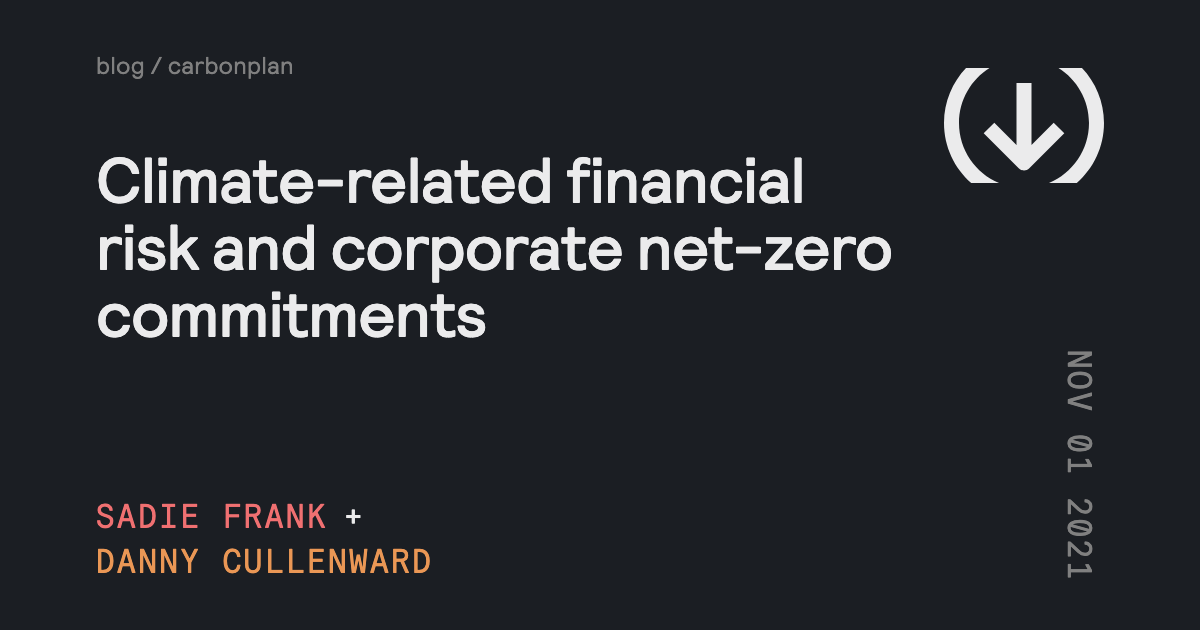
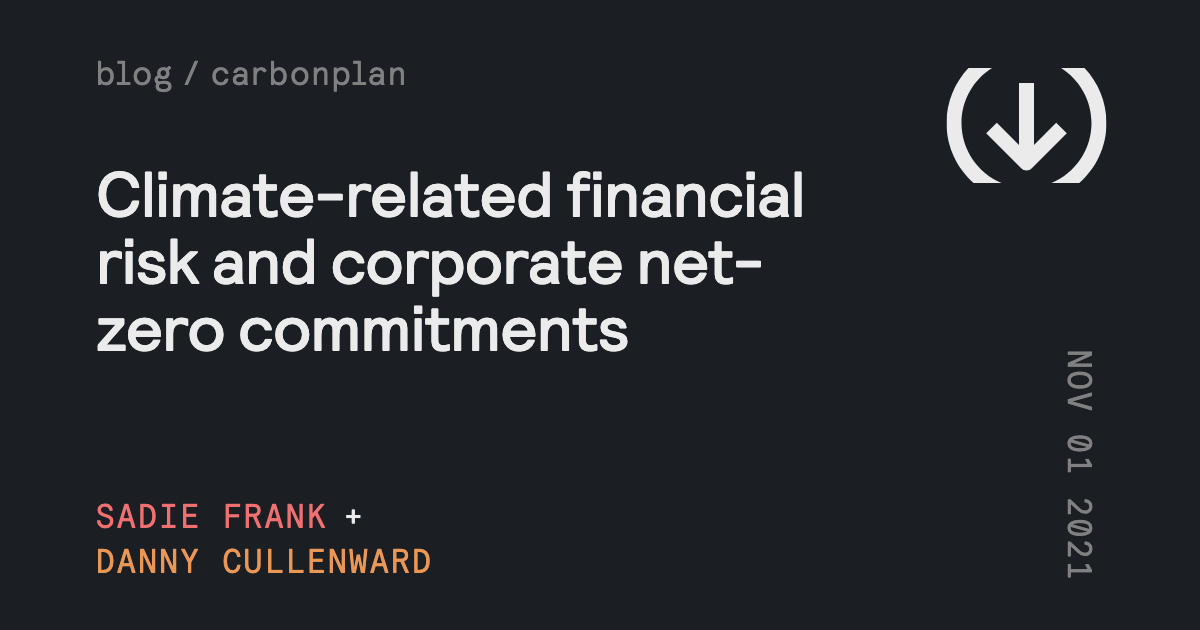
UI tweaks

diff --git a/pages/cards/[id].js b/pages/cards/[id].js
@@ -18,7 +18,15 @@ const Card = ({ title, authors, date, number }) => {
     >
       <Flex sx={{ flexDirection: 'column', justifyContent: 'space-between' }}>
         <Box>
-          <Box sx={{ color: 'secondary', fontSize: [4], mb: [3] }}>
+          <Box
+            sx={{
+              color: 'secondary',
+              fontFamily: 'faux',
+              letterSpacing: 'smallcaps',
+              fontSize: [5],
+              mb: [3],
+            }}
+          >
             blog / carbonplan
           </Box>
           <Box as='h1' variant='styles.h1' sx={{ maxWidth: '800px' }}>
@@ -47,6 +55,9 @@ const Card = ({ title, authors, date, number }) => {
           ))}
         </Box>
       </Flex>
+
+      <Box sx={{ flex: '1 0 64px' }} />
+
       <Flex sx={{ flexDirection: 'column', justifyContent: 'space-between' }}>
         <Monogram sx={{ width: 160, display: 'block' }} />
 
